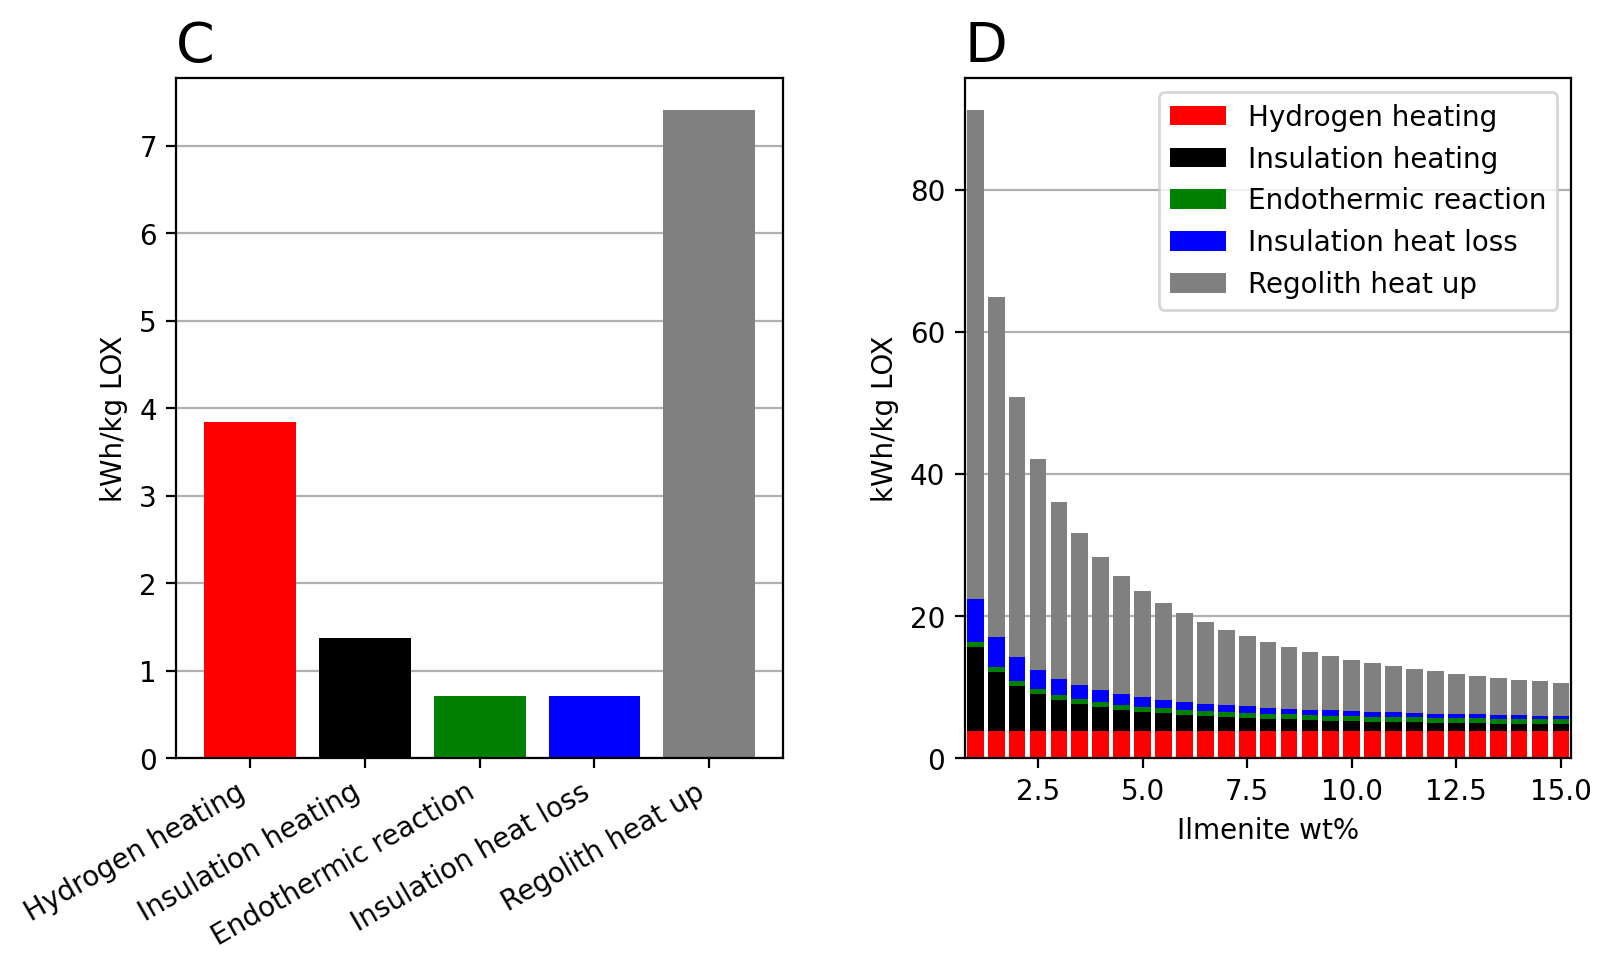
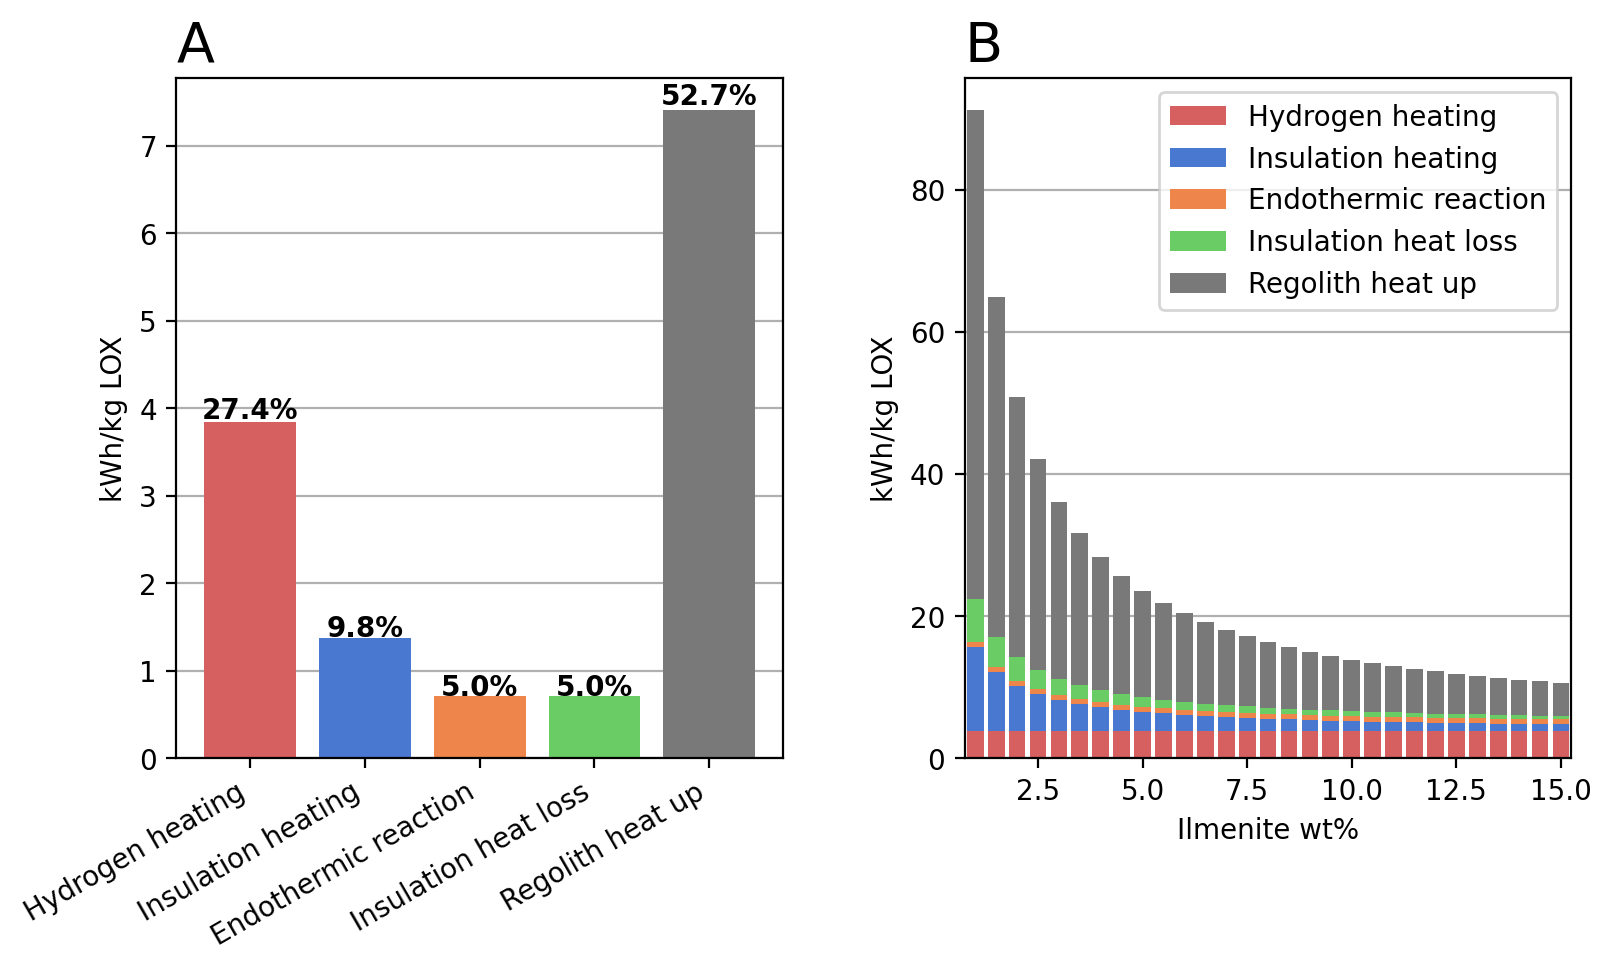
polished graphs

diff --git a/space_resources/H2_R2O2.py b/space_resources/H2_R2O2.py
@@ -39,22 +39,22 @@ sum_energy = np.sum(energy)
 labels = np.round(energy/sum_energy*100, 1)
 energy_consumers_full = ["Excavation", "Transportation", "Beneficiation",
                          "Reactor", "Electrolysis", "Liquefaction", "Storage"]
-#colors_bars = ["tab:grey", "black", "tab:red", "tab:green",  "tab:blue", "tab:orange"]
-colors_bars = ["orange", "red", "black", viridis(
+#colors_bars = ["tab:grey", "grey", "tab:red", "tab:green",  "tab:blue", "tab:orange"]
+colors_bars = ["orange", "red", "grey", viridis(
     0.2), viridis(0.45),  viridis(0.6), viridis(0.95)]
 #colors_bars = [pastel[5], pastel[7], pastel[3], pastel[2],  pastel[0], pastel[8]]
 # colors_bars = ['#FEB144', pastel[7], '#FF6663', '#FDFD97',  '#9EC1CF', '#9EE09E']
-# colors_bars = ['black', '#8197a6', '#f1666a', '#00ae9d',  '#009bdb', '#1e3378']
+# colors_bars = ['grey', '#8197a6', '#f1666a', '#00ae9d',  '#009bdb', '#1e3378']
 
 # used lists and variables for the stackplot
 legend_stackplot = ["Storage",  "Liquefaction",
                     "Electrolysis", "Transportation", "Excavation", "Beneficiation", "Reactor"]
-#colors_stackplot = [  "tab:orange",  "tab:blue", "tab:green", "tab:red","black","tab:grey" ]
+#colors_stackplot = [  "tab:orange",  "tab:blue", "tab:green", "tab:red","grey","tab:grey" ]
 colors_stackplot = [viridis(0.95),  viridis(
-    0.6), viridis(0.45), "red", "orange", "black", viridis(0.2)]
+    0.6), viridis(0.45), "red", "orange", "grey", viridis(0.2)]
 #colors_stackplot = [pastel[8], pastel[0], pastel[2], pastel[3],  pastel[7], pastel[5]]
 # colors_stackplot = ['#9EE09E', '#9EC1CF', '#FDFD97', '#FF6663', pastel[7], '#FEB144']
-# colors_stackplot = ['#1e3378', '#009bdb', '#00ae9d', '#f1666a', '#8197a6', 'black']
+# colors_stackplot = ['#1e3378', '#009bdb', '#00ae9d', '#f1666a', '#8197a6', 'grey']
 
 # create figure
 fig, (ax1, ax2) = plt.subplots(nrows=1, ncols=2, figsize=(9, 5))
@@ -97,7 +97,7 @@ ax1.grid(axis="y")
 #              loc="left",  fontsize=11)
 ax1.set_title('A', loc='left', fontsize =20)
 ax1.set_ylabel('kWh/kg LOX')
-
+fig.subplots_adjust(wspace=0.3, hspace=0.5)
 index = -1
 for bar in p1:
     index = index+1
@@ -111,19 +111,35 @@ for bar in p1:
              weight='bold')
 
 # Plot reactor energy sinks comparison
+pastel = sns.color_palette(palette="muted", as_cmap=True)
 reactor_energy_sinks = ["Hydrogen heating", "Insulation heating",
                         "Endothermic reaction", "Insulation heat loss", "Regolith heat up"]
 reactor_energies = [energy_to_heat_hydrogen_at_10_perc_ilm, total_energy_to_heat_insulation_at_10_perc_ilm,
                     energy_endothermic_ilmenite_H2_reaction_at_10_perc_ilm, Q_total_lost_at_10_perc_ilm, energy_to_heat_regolith_batch_at_10_perc_ilm]
-reactor_colors = ['red','black','green','blue','grey']
+#reactor_colors = ['red','black','green','blue','grey']
+reactor_colors = [pastel[3],pastel[0],pastel[1],pastel[2],pastel[7]]
+
 
 p3 = ax3.bar(reactor_energy_sinks, reactor_energies, color = reactor_colors)
 ax3.grid(axis="y")
 #ax3.set_title("Reactor energy requirements comparison (10 %Ilmenite)",
 #              loc="left",  fontsize=11)
-ax3.set_title('C',loc='left', fontsize =20)
+ax3.set_title('A',loc='left', fontsize =20)
 ax3.set_ylabel('kWh/kg LOX')
 
+sum_energy_reactor = np.sum(reactor_energies)
+labels_reactor = np.round(reactor_energies/sum_energy_reactor*100, 1)
+index = -1
+for bar in p3:
+    index = index+1
+    width = bar.get_width()
+    height = bar.get_height()
+    x, y = bar.get_xy()
+    ax3.text(x+width/2,
+             y+height*1.01,
+             str(labels_reactor[index])+'%',
+             ha='center',
+             weight='bold')
 
 # Plot reactor energy sinks comparison over ilmenite %
 
@@ -148,22 +164,22 @@ energy_to_heat_regolith_batch_list= np.divide(energy_to_heat_regolith_batch_list
 
 barwidth_2 = 12/len(ilmenite_grade_list)
 b1 = ax4.bar(ilmenite_grade_list,
-             energy_to_heat_hydrogen_list, color='red', label=reactor_energy_sinks[0], width=barwidth)
+             energy_to_heat_hydrogen_list, color=reactor_colors[0], label=reactor_energy_sinks[0], width=barwidth)
 b2 = ax4.bar(ilmenite_grade_list, total_energy_to_heat_insulation_list,
-             bottom=energy_to_heat_hydrogen_list, color='black', label=reactor_energy_sinks[1], width=barwidth)
+             bottom=energy_to_heat_hydrogen_list, color=reactor_colors[1], label=reactor_energy_sinks[1], width=barwidth)
 b3 = ax4.bar(ilmenite_grade_list, energy_endothermic_ilmenite_H2_reaction_list, bottom=energy_to_heat_hydrogen_list
-             + total_energy_to_heat_insulation_list, color='green', label=reactor_energy_sinks[2], width=barwidth)
+             + total_energy_to_heat_insulation_list, color=reactor_colors[2], label=reactor_energy_sinks[2], width=barwidth)
 b4 = ax4.bar(ilmenite_grade_list, Q_total_lost_list, bottom=energy_to_heat_hydrogen_list + total_energy_to_heat_insulation_list +
-             energy_endothermic_ilmenite_H2_reaction_list, color='blue', label=reactor_energy_sinks[3], width=barwidth)
+             energy_endothermic_ilmenite_H2_reaction_list, color=reactor_colors[3], label=reactor_energy_sinks[3], width=barwidth)
 b4 = ax4.bar(ilmenite_grade_list, energy_to_heat_regolith_batch_list, bottom=energy_to_heat_hydrogen_list + total_energy_to_heat_insulation_list +
-             energy_endothermic_ilmenite_H2_reaction_list+Q_total_lost_list, color='grey', label=reactor_energy_sinks[4], width=barwidth)
+             energy_endothermic_ilmenite_H2_reaction_list+Q_total_lost_list, color=reactor_colors[4], label=reactor_energy_sinks[4], width=barwidth)
 ax4.legend()
 ax4.grid(axis="y")
 ax4.set_xlabel("Ilmenite wt%")
 ax4.set_ylabel('kWh/kg LOX')
 ax4.set_xlim((0.75, 15.25))
 #ax4.set_title("Reactor energy requirements comparison as a function of ilmenite %",loc="left",  fontsize=11)
-ax4.set_title('D',loc='left', fontsize =20)
+ax4.set_title('B',loc='left', fontsize =20)
 
 fig.autofmt_xdate()
 fig2.autofmt_xdate()
@@ -172,7 +188,7 @@ plt.setp(ax2.xaxis.get_majorticklabels(), rotation=0,
 plt.setp(ax4.xaxis.get_majorticklabels(), rotation=0,
          ha="center", rotation_mode="anchor")
 #plt.suptitle('Energy comparison between different process steps')
-plt.subplots_adjust(wspace=0.3, hspace=0.5)
+fig2.subplots_adjust(wspace=0.3, hspace=0.5)
 plt.savefig('Result_figure.png', dpi=200, bbox_inches='tight')
 plt.show()
 plt.close()

diff --git a/space_resources/monte_carlo_estimation.py b/space_resources/monte_carlo_estimation.py
@@ -5,12 +5,15 @@ import seaborn as sns
 import matplotlib.pyplot as plt
 from matplotlib import cm
 from matplotlib.colors import LinearSegmentedColormap, ListedColormap
+
+#global plot parameters
 plt.rcParams.update({'lines.markeredgewidth': 1})
+plt.rc('axes', axisbelow=True)
 
 def monte_carlo_estimation_all_params():
     processes = ["Excavation", "Transportation", "Beneficiation", "Reactor",
                 "Electrolysis", "Liquefaction", "Storage"]
-    N = 50
+    N = 200
 
     energy_w_ilmenite = []
     energy_slice = []
@@ -77,26 +80,36 @@ def monte_carlo_estimation_all_params():
 
     #define parameters for plots
     viridis = cm.get_cmap('viridis', 12)
-    colors_bars = ["orange", "red", "black", viridis(
+    colors_bars = ["orange", "red", "grey", viridis(
     0.2), viridis(0.45),  viridis(0.6), viridis(0.95)]
     barwidth = 12/len(ilmenite_grade_list)
     
+    fig, (ax1, ax2) =plt.subplots(nrows=1, ncols=2, figsize=(9, 5))
     # Plot total energy w. errors
-    plt.bar(ilmenite_grade_list, height=energy_as_func_of_ilmenite_list,
-                yerr=energy_w_ilmenite_std, capsize=5, width = barwidth)
-    plt.gca().set_title('Total energy w. errors')
-    plt.show()
+    ax2.bar(ilmenite_grade_list, height=energy_as_func_of_ilmenite_list,
+                yerr=(abs(energy_w_ilmenite_std+(energy_as_func_of_ilmenite_list -
+            energy_w_ilmenite_mu)), abs(energy_w_ilmenite_std-(energy_as_func_of_ilmenite_list-energy_w_ilmenite_mu))), capsize=3, width = barwidth)
+    ax2.set_ylabel('kWh/kg LOX')
+    ax2.grid(axis="y")
+    ax2.set_xlabel("Ilmenite wt%")
+    ax2.set_title('B',loc='left', fontsize =20)
 
 
     # Plot energy w. errors
-    plt.bar(processes, height=energy, yerr=(abs(energy_slice_std+(energy -
-            energy_slice_mu)), abs(energy_slice_std-(energy-energy_slice_mu))), capsize=5, color = colors_bars)
-    plt.gca().set_title('Energy w. errors')
+    ax1.bar(processes, height=energy, yerr=(abs(energy_slice_std+(energy -
+            energy_slice_mu)), abs(energy_slice_std-(energy-energy_slice_mu))), capsize=5, color = colors_bars, label = processes)
+    ax1.set_yscale('linear')
+    ax1.set_ylabel('kWh/kg LOX')
+    ax1.set_title('A',loc='left', fontsize =20)
+    ax1.grid(axis="y")
+    fig.subplots_adjust(wspace=0.3, hspace=0.5)
+    fig.autofmt_xdate()
+    plt.setp(ax2.xaxis.get_majorticklabels(), rotation=0,
+         ha="center", rotation_mode="anchor")
     plt.show()
-
-
     # Plot distributions
-    fig, axs = plt.subplots(ncols=3, nrows=2, figsize=(15, 8))
+
+    fig2, axs = plt.subplots(ncols=3, nrows=2, figsize=(15, 8))
 
     for process, _ax, name in zip(energy_slice.T, axs.ravel(), processes):
         sns.histplot(process, ax=_ax)
@@ -212,6 +225,8 @@ def monte_carlo_estimation_individual_params():
     plt.gca().set_title('Errors for different variables')
     plt.xlabel("ilmenite %")
     plt.ylabel("Relative error of energy consumption in %")
+    plt.set_ylabel('kWh/kg LOX')
+    plt.grid(axis="y")
     plt.legend()
     plt.show()
 
